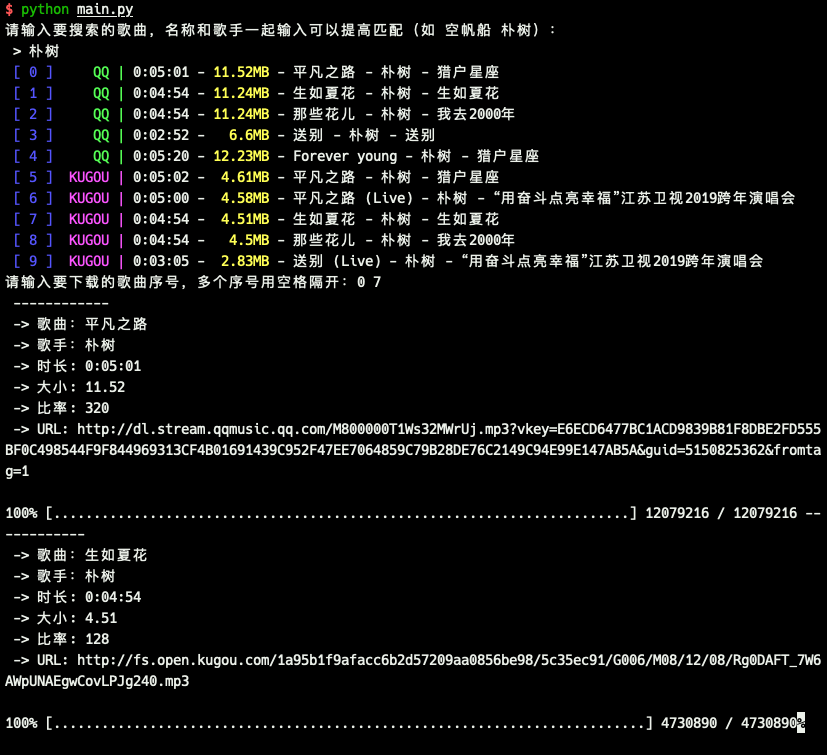
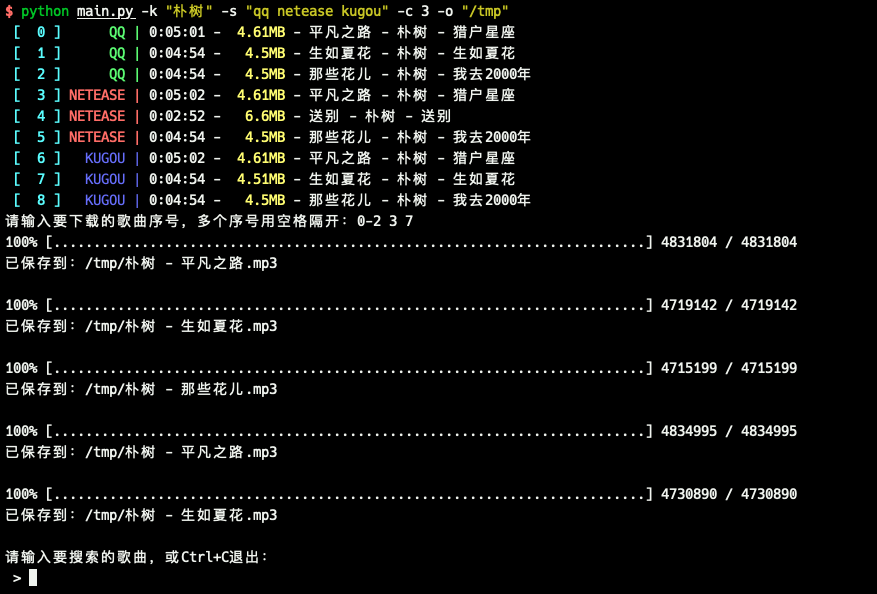
补充使用说明和示例

diff --git a/README.md b/README.md
@@ -1,12 +1,27 @@
 # music-dl
 search and download music 从网易云音乐、虾米音乐、QQ音乐、酷狗音乐、酷我音乐等搜索和下载歌曲
 
+支持指定搜索数量和音乐源，默认下载能获得的最优品质的音乐。
+
+普通模式：
 ![](./docs/preview.png)
 
+详细模式：
+![](./docs/verbose.png)
+
 ## 使用方式
-```bash
-python main.py [关键字]
 ```
+$ python main.py -h
+usage: python main.py [-k keyword] [-s source] [-c count] [-o outdir] [-v]
+	-h --help        帮助
+	-v --verbose     详细模式
+	-k --keyword=    搜索关键字
+	-s --source=     数据源目前支持qq netease kugou
+	-c --count=      数量限制
+	-o --outdir=     指定输出目录
+example: python main.py -k "周杰伦" -s "qq netease kugou" -c 10 -o "/tmp"
+```
+> 注意：如果经常需要指定数量、目录等参数可以考虑修改glovar.py中的变量
 
 ## 支持音乐源列表
 已支持
@@ -22,17 +37,6 @@ python main.py [关键字]
 欢迎提交插件支持更多音乐源！插件写法参考`core/extractors`中的文件
 
 ![](./docs/fork.png)
-
-## TODO
-- 支持更多音乐源
-- 增加更多定制化参数
-    - 指定某个音乐源
-    - 自定义数量和翻页
-    - 选择音质
-- 更友好的交互
-    - 搜索进度提示
-    - 下载完继续搜索
-    - 键盘控制交互
 
 ## 致谢
 本项目受以下项目启发，参考了其中一部分思路，向这些开发者表示感谢。
